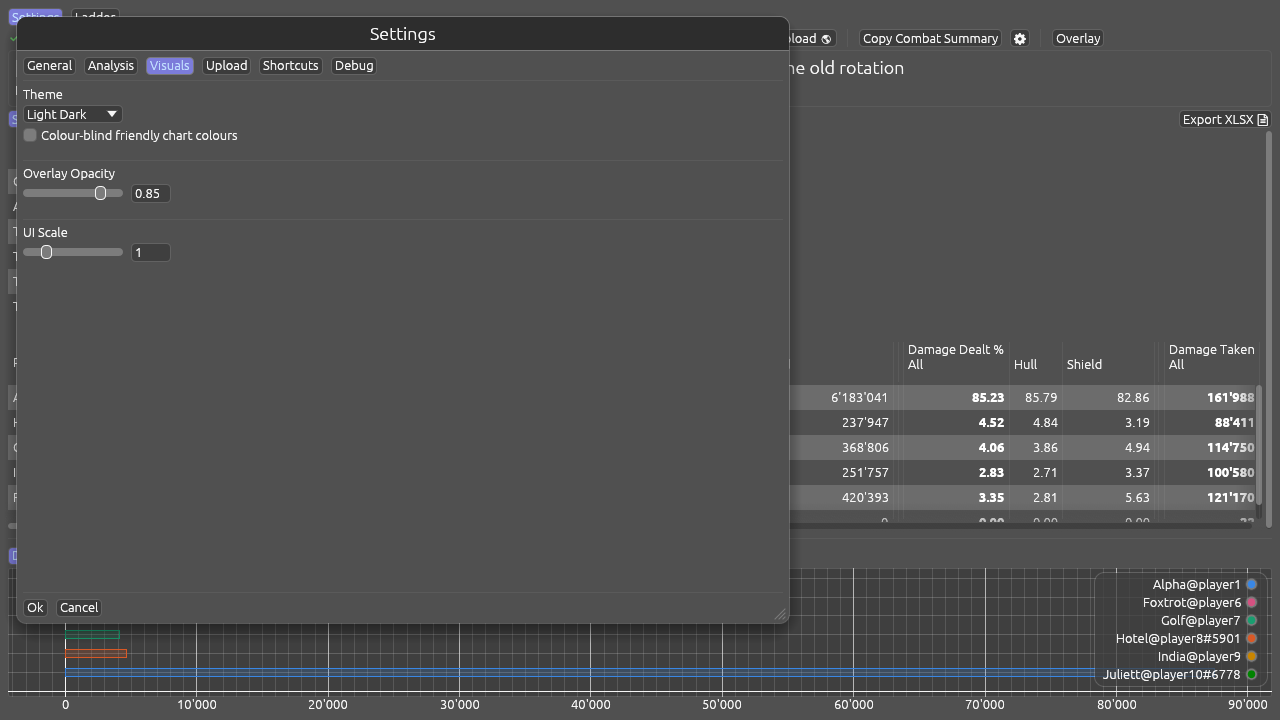
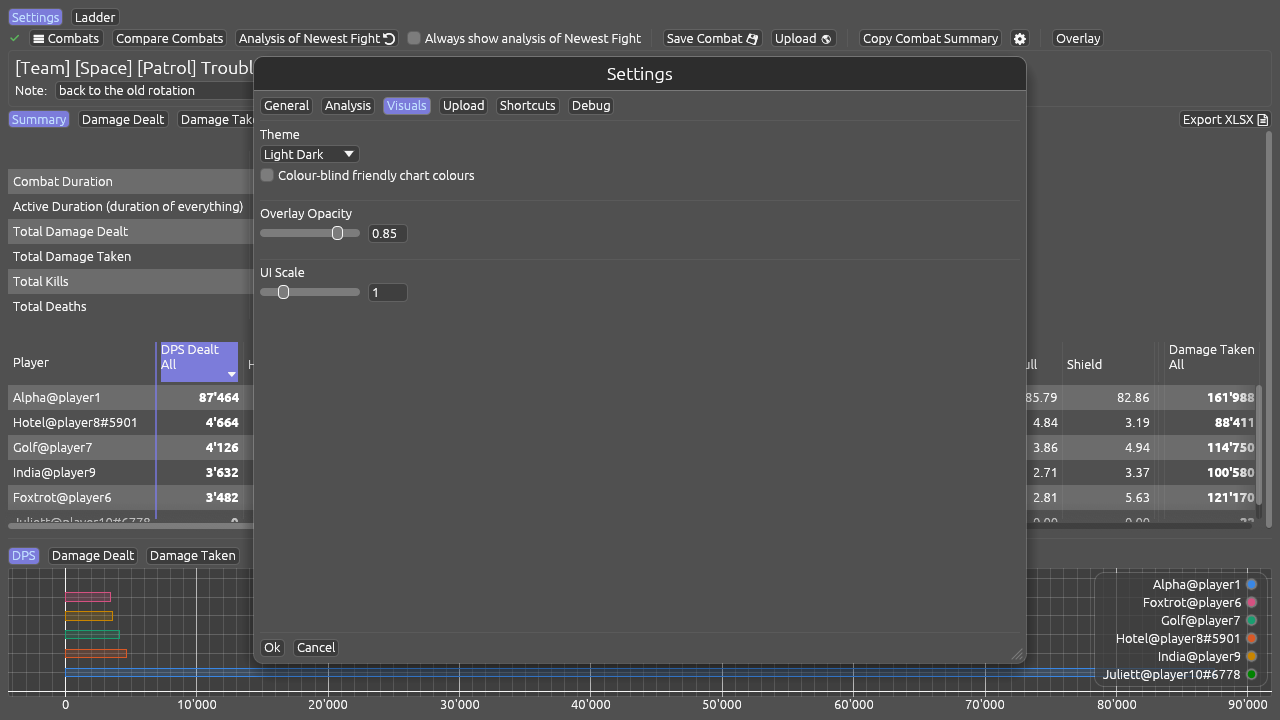
Open the dialogs in the middle of the window, and name the shortcut not the keys
egui places a new window by cascading from the top-left corner, so Settings
opened over the toolbar it was opened from and each dialog landed somewhere
slightly different. custom_widgets::dialog::centred puts them in the middle
of the window they belong to — the main one, or the ladder for the dialogs
drawn there, since a dialog belongs to the window it was opened from rather
than to the screen.

The position goes through Area::pivot, which makes it the window's centre
rather than its top-left corner; that is what lets an auto_sized window be
centred without guessing how big it will turn out. default_pos rather than
anchor, so a reader can still drag one aside to read what is behind — the
windows that stand for a job in progress keep their anchor.

Applied to Settings, Selected Combat Occurred Names, Damage by type, Upload
and the three Download log states. Not to the column pickers, which are
popups belonging to the button that opens them.

The desktop-wide box now reads "Take the Overlay shortcut from the whole
desktop" rather than naming the combination. The label was built from the
live setting and did follow a rebind, but the row above is where the
combination is set and shown, and a second copy of it on the same page is
one more thing to read and one more place to be out of step. The state line
under it loses the combination for the same reason; a refusal keeps it,
since there the point is which key could not be had.
[…]

diff --git a/src/custom_widgets/dialog.rs b/src/custom_widgets/dialog.rs
@@ -1,4 +1,5 @@
-//! Shared dialog behaviour: Escape closes the window that is being drawn.
+//! Shared dialog behaviour: where a window opens, and Escape closing the window
+//! that is being drawn.
 //!
 //! Every window in the program offers the same key rather than each one
 //! deciding for itself, so a reader who has learnt it in one dialog has learnt
@@ -23,7 +24,40 @@
 
 use std::sync::LazyLock;
 
-use eframe::egui::{Context, Id, Key, Modifiers};
+use eframe::egui::{Align2, Context, Id, Key, Modifiers, Pos2, Window};
+
+/// Opens a window in the middle of the program's own window, and leaves it
+/// wherever the reader drags it afterwards.
+///
+/// Applied to every window that stands *over* the work — Settings, the lists
+/// and the reports — because egui's own default cascades from the top-left
+/// corner, so a dialog opened for a moment landed over the toolbar it was
+/// opened from, and each one landed somewhere slightly different.
+///
+/// The position is given through `pivot`, which makes it the window's **centre**
+/// rather than its top-left corner. That is what lets a window whose size is
+/// only known once it has been laid out — anything `auto_sized` — be centred at
+/// all, without a guess at how big it is going to be.
+///
+/// `default_pos` rather than `anchor`: an anchored window cannot be dragged, and
+/// these are windows a reader may want to move aside to read what is behind.
+/// The windows that report work in progress do use `anchor`, deliberately — they
+/// stand for a job rather than a question.
+pub fn centred<'w>(window: Window<'w>, ctx: &Context) -> Window<'w> {
+    window
+        .pivot(Align2::CENTER_CENTER)
+        .default_pos(centre_of_the_window(ctx))
+}
+
+/// The middle of the window this context draws — the main window, or the ladder
+/// when the dialog belongs to it, since that one is a window of its own.
+///
+/// Not the middle of the *screen*: a dialog belongs to the window it was opened
+/// from, and a program in the corner of a large monitor would otherwise open its
+/// settings somewhere with no relation to it.
+fn centre_of_the_window(ctx: &Context) -> Pos2 {
+    ctx.content_rect().center()
+}
 
 /// Whether anything had the keyboard focus when the previous pass ended. Written
 /// every pass a dialog is up, read on the pass Escape arrives — see below for

diff --git a/src/upload/records.rs b/src/upload/records.rs
@@ -1,4 +1,4 @@
-use crate::custom_widgets::dialog::escape_closes;
+use crate::custom_widgets::dialog::{centred, escape_closes};
 use std::{fs::File, io::Write, path::PathBuf, thread::JoinHandle, time::Duration};
 
 use chrono::DateTime;
@@ -938,7 +938,7 @@ impl DownloadLogState {
         match self {
             DownloadLogState::Idle => (),
             DownloadLogState::Opening(path, join_handle) => {
-                Window::new("Download log")
+                centred(Window::new("Download log"), ui.ctx())
                     .auto_sized()
                     .constrain(true)
                     .collapsible(false)
@@ -961,7 +961,7 @@ impl DownloadLogState {
                 }
             }
             DownloadLogState::Downloading(message, join_handle) => {
-                Window::new("Download log")
+                centred(Window::new("Download log"), ui.ctx())
                     .auto_sized()
                     .constrain(true)
                     .collapsible(false)
@@ -980,7 +980,7 @@ impl DownloadLogState {
             DownloadLogState::DownloadFailed(error) => {
                 let mut open = true;
                 let mut dismissed = false;
-                Window::new("Download log failed")
+                centred(Window::new("Download log failed"), ui.ctx())
                     .auto_sized()
                     .constrain(true)
                     .collapsible(false)

diff --git a/src/app/settings/shortcuts.rs b/src/app/settings/shortcuts.rs
@@ -187,18 +187,14 @@ impl ShortcutsTab {
         ui: &mut Ui,
     ) {
         let overlay = ShortcutAction::ToggleOverlay;
-        // The combination is named in the label rather than left to the row
-        // above, because this is the one setting whose effect reaches outside
-        // the program: what it takes from every other window has to be spelled
-        // out where it is switched on, and it follows the row — change the
-        // combination and this says the new one.
-        let combination = modified_settings.shortcuts.effective(overlay);
+        // The row above is where the combination is set and shown, so this
+        // names the *shortcut* rather than the keys. Spelling the combination
+        // out here would be a second copy of it on the same page — right, since
+        // it would be built from the live setting, but one more thing to read
+        // and one more place for it to be out of step.
         ui.checkbox(
             &mut modified_settings.shortcuts.system_wide,
-            format!(
-                "Take {combination} ({}) from the whole desktop",
-                overlay.label()
-            ),
+            format!("Take the {} shortcut from the whole desktop", overlay.label()),
         )
         .hover(
             "Off, the shortcut only reaches the program while its window is in front — which it \

diff --git a/src/app/shortcuts/global.rs b/src/app/shortcuts/global.rs
@@ -66,12 +66,17 @@ pub enum GlobalState {
 
 impl GlobalState {
     /// The line the settings tab shows.
+    ///
+    /// It says what became of the shortcut, not which keys it is — those are on
+    /// the row above, which is where they are set. A refusal is the exception
+    /// and names the combination, because there the point is *which* key could
+    /// not be had.
     pub fn message(&self) -> String {
         match self {
             Self::Off => "Not taken — the shortcut only works while this window is in front."
                 .to_owned(),
-            Self::Held(trigger) => {
-                format!("{trigger} is taken from the whole desktop; it works while the game is in front.")
+            Self::Held(_) => {
+                "Taken from the whole desktop; it works while the game is in front.".to_owned()
             }
             Self::Refused(reason) => format!("Could not be taken: {reason}"),
             Self::Unsupported(reason) => format!("Not available here: {reason}"),

diff --git a/src/app/compare/compare_table.rs b/src/app/compare/compare_table.rs
@@ -11,7 +11,7 @@
 //! into one mean per metric, and the export, which writes the same table to a
 //! spreadsheet (`export`).
 
-use crate::custom_widgets::dialog::escape_closes;
+use crate::custom_widgets::dialog::{centred, escape_closes};
 use chrono::NaiveDateTime;
 use std::{path::PathBuf, sync::Arc};
 
@@ -1173,7 +1173,7 @@ impl Comparison {
         let size = self.type_summary_size(ui, &rows, with_notes);
         let width = size.x;
         let mut dismissed = false;
-        Window::new("Damage by type")
+        centred(Window::new("Damage by type"), ui.ctx())
             .open(&mut open)
             .fixed_size(vec2(size.x.min(cap.x), size.y.min(cap.y)))
             .show(ui.ctx(), |ui| {

diff --git a/src/app/settings/mod.rs b/src/app/settings/mod.rs
@@ -1,4 +1,4 @@
-use crate::custom_widgets::dialog::escape_closes;
+use crate::custom_widgets::dialog::{centred, escape_closes};
 use std::ffi::OsStr;
 
 pub use app_settings::{DebugSettings, Settings, WindowGeometry};
@@ -113,7 +113,7 @@ impl SettingsWindow {
         // window ends up taller than the viewport.
         let max_size = (ui.ctx().content_rect().size() - vec2(16.0, 16.0) - self.window_chrome)
             .at_least(vec2(200.0, 150.0));
-        let window_response = Window::new("Settings")
+        let window_response = centred(Window::new("Settings"), ui.ctx())
             .collapsible(false)
             .resizable(true)
             .default_size(default_size)

diff --git a/src/app/settings/analysis.rs b/src/app/settings/analysis.rs
@@ -1,4 +1,4 @@
-use crate::custom_widgets::dialog::escape_closes;
+use crate::custom_widgets::dialog::{centred, escape_closes};
 use rustc_hash::FxHashMap;
 use std::borrow::BorrowMut;
 
@@ -419,7 +419,7 @@ impl AnalysisTab {
         }
 
         let mut close = false;
-        Window::new("Selected Combat Occurred Names")
+        centred(Window::new("Selected Combat Occurred Names"), ui.ctx())
             .collapsible(false)
             .open(&mut self.list_selected_combat_occurred_names)
             .scroll(true)

diff --git a/src/upload/upload.rs b/src/upload/upload.rs
@@ -1,4 +1,4 @@
-use crate::custom_widgets::dialog::escape_closes;
+use crate::custom_widgets::dialog::{centred, escape_closes};
 use std::{
     io::{Read, Write},
     sync::{
@@ -202,7 +202,7 @@ impl Upload {
     }
 
     fn window<R>(ui: &Ui, constrain: bool, add_contents: impl FnOnce(&mut Ui) -> R) -> Option<R> {
-        let mut window = Window::new("Upload")
+        let mut window = centred(Window::new("Upload"), ui.ctx())
             .collapsible(false)
             .auto_sized()
             .constrain(true);

diff --git a/docs/SHORTCUTS.md b/docs/SHORTCUTS.md
@@ -185,12 +185,13 @@ the press:
 The system-wide checkbox is at the foot of the tab, under the state line
 described next. A change there takes effect on **Ok**, like every other setting.
 
-Its label names the combination — *Take Alt+O (Overlay) from the whole desktop*
-— and follows the Overlay row: what the desktop-wide key *is* has to be legible
-where it is switched on, because this is the one setting whose effect reaches
-every other window on the machine. It is always the combination in that row,
-never the shipped one; `the_desktop_wide_key_is_the_one_the_overlay_row_holds`
-takes a real grab and holds it to that.
+Its label names the *shortcut*, not the keys — *Take the Overlay shortcut from
+the whole desktop* — because the row above is where the combination is set and
+shown, and a second copy of it on the same page is one more thing to read and
+one more place to be out of step. Whatever that row holds is what gets taken,
+never the shipped default;
+`the_desktop_wide_key_is_the_one_the_overlay_row_holds` takes a real grab and
+holds it to that.
 
 ## The desktop-wide key
 
@@ -223,7 +224,7 @@ with no XWayland in it. On Windows the question does not arise —
 | State | Line in the tab | Means |
 |---|---|---|
 | `Off` | "Not taken — the shortcut only works while this window is in front." | the box is unticked |
-| `Held` | "`Alt+O` is taken from the whole desktop…" | the grab is up |
+| `Held` | "Taken from the whole desktop…" | the grab is up |
 | `Refused` | "Could not be taken: …" | another program holds that key, or it is not on the layout |
 | `Unsupported` | "Not available here: …" | no X server to take it from, or no backend on this platform |
 

diff --git a/MANUAL.md b/MANUAL.md
@@ -1430,7 +1430,7 @@ saying what actually happened, which is worth a glance:
 
 | What it says | What it means |
 |--------------|---------------|
-| *Alt+O is taken from the whole desktop* | It works, including while the game is in front. |
+| *Taken from the whole desktop* | It works, including while the game is in front. |
 | *Not taken — the shortcut only works while this window is in front* | The box is unticked. The key still works when you are looking at STO-CLARE. |
 | *Could not be taken: …* | Something else on your desktop already holds that combination. Pick another one. |
 | *Not available here: …* | This desktop has no way to hand the program a key from outside its own window. Everything else still works as normal. |
